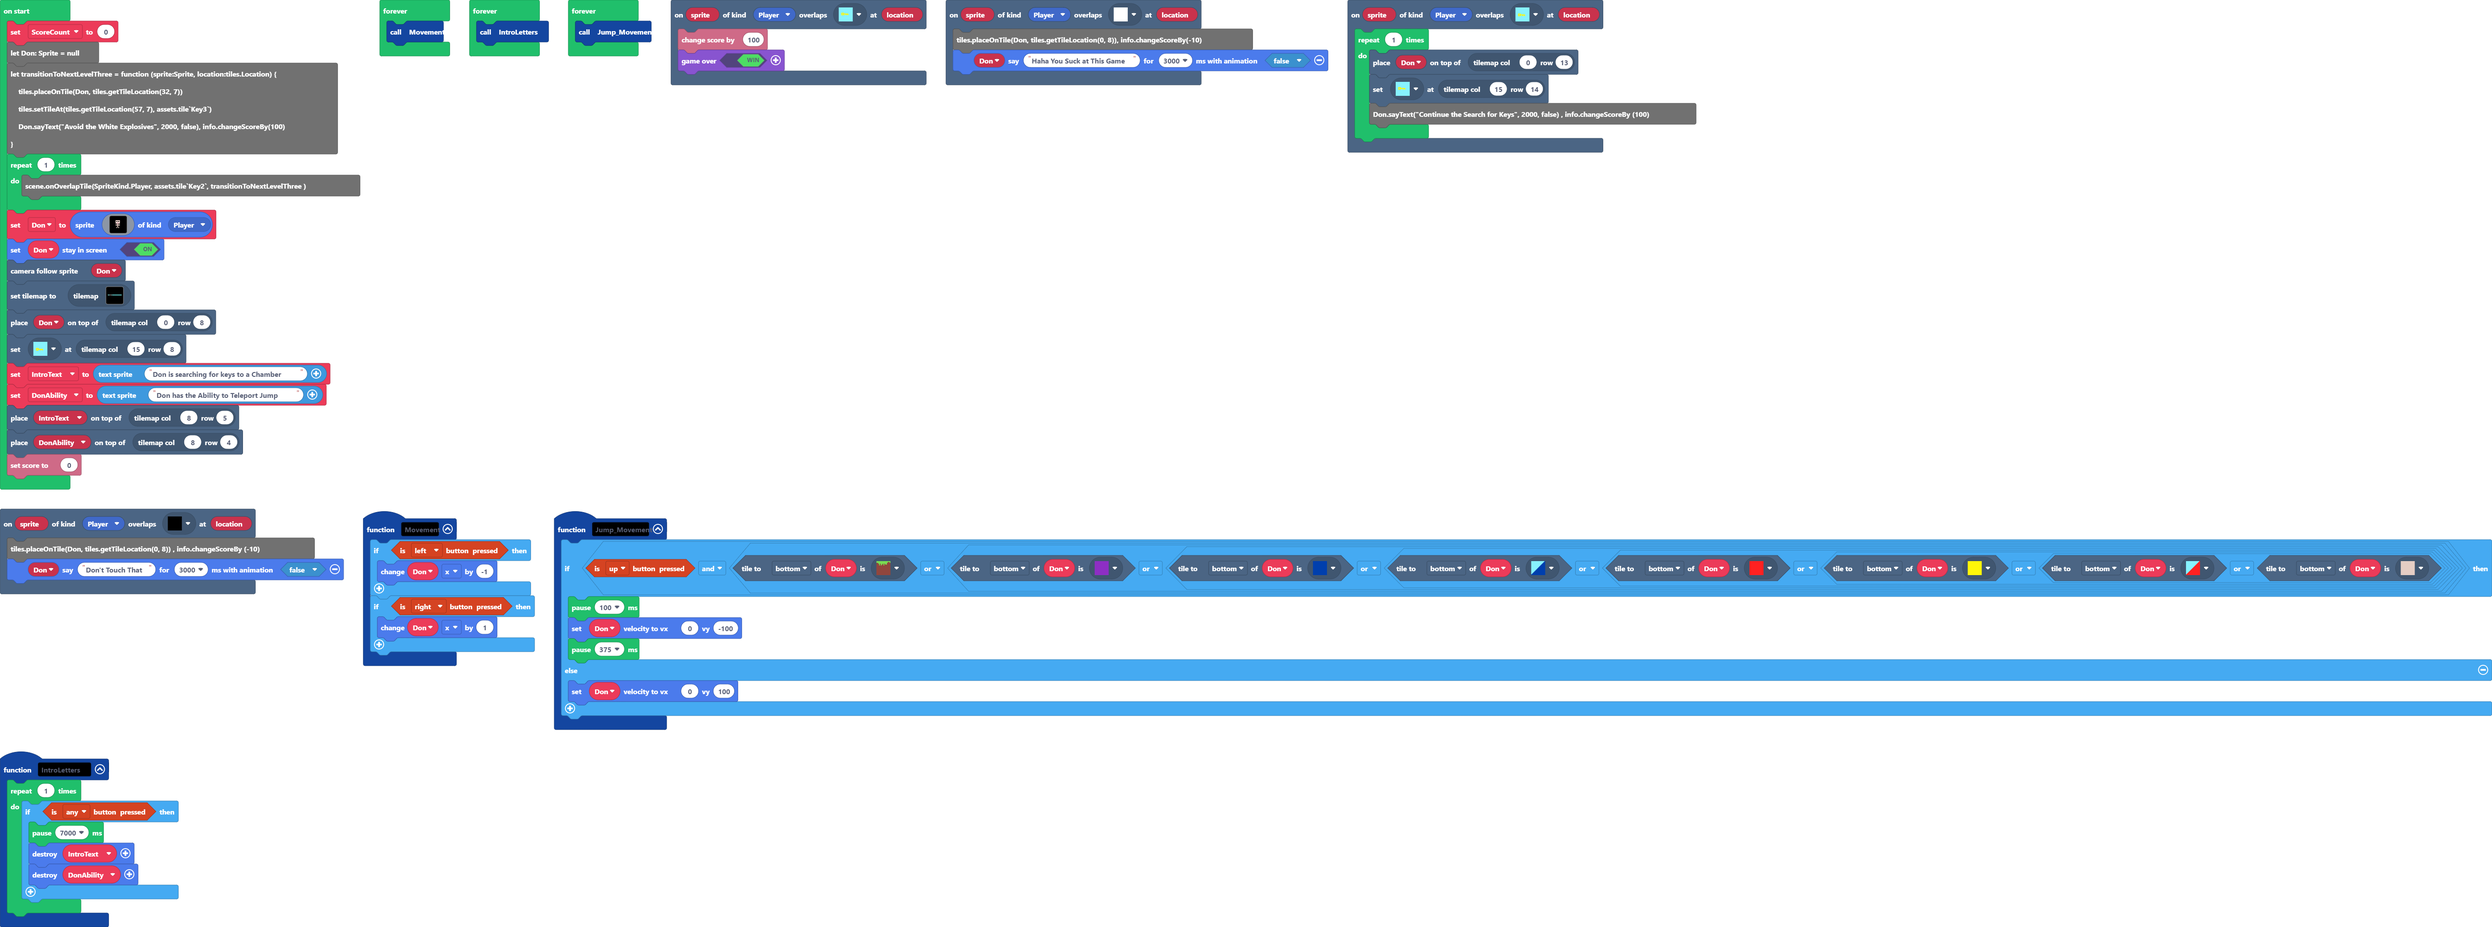
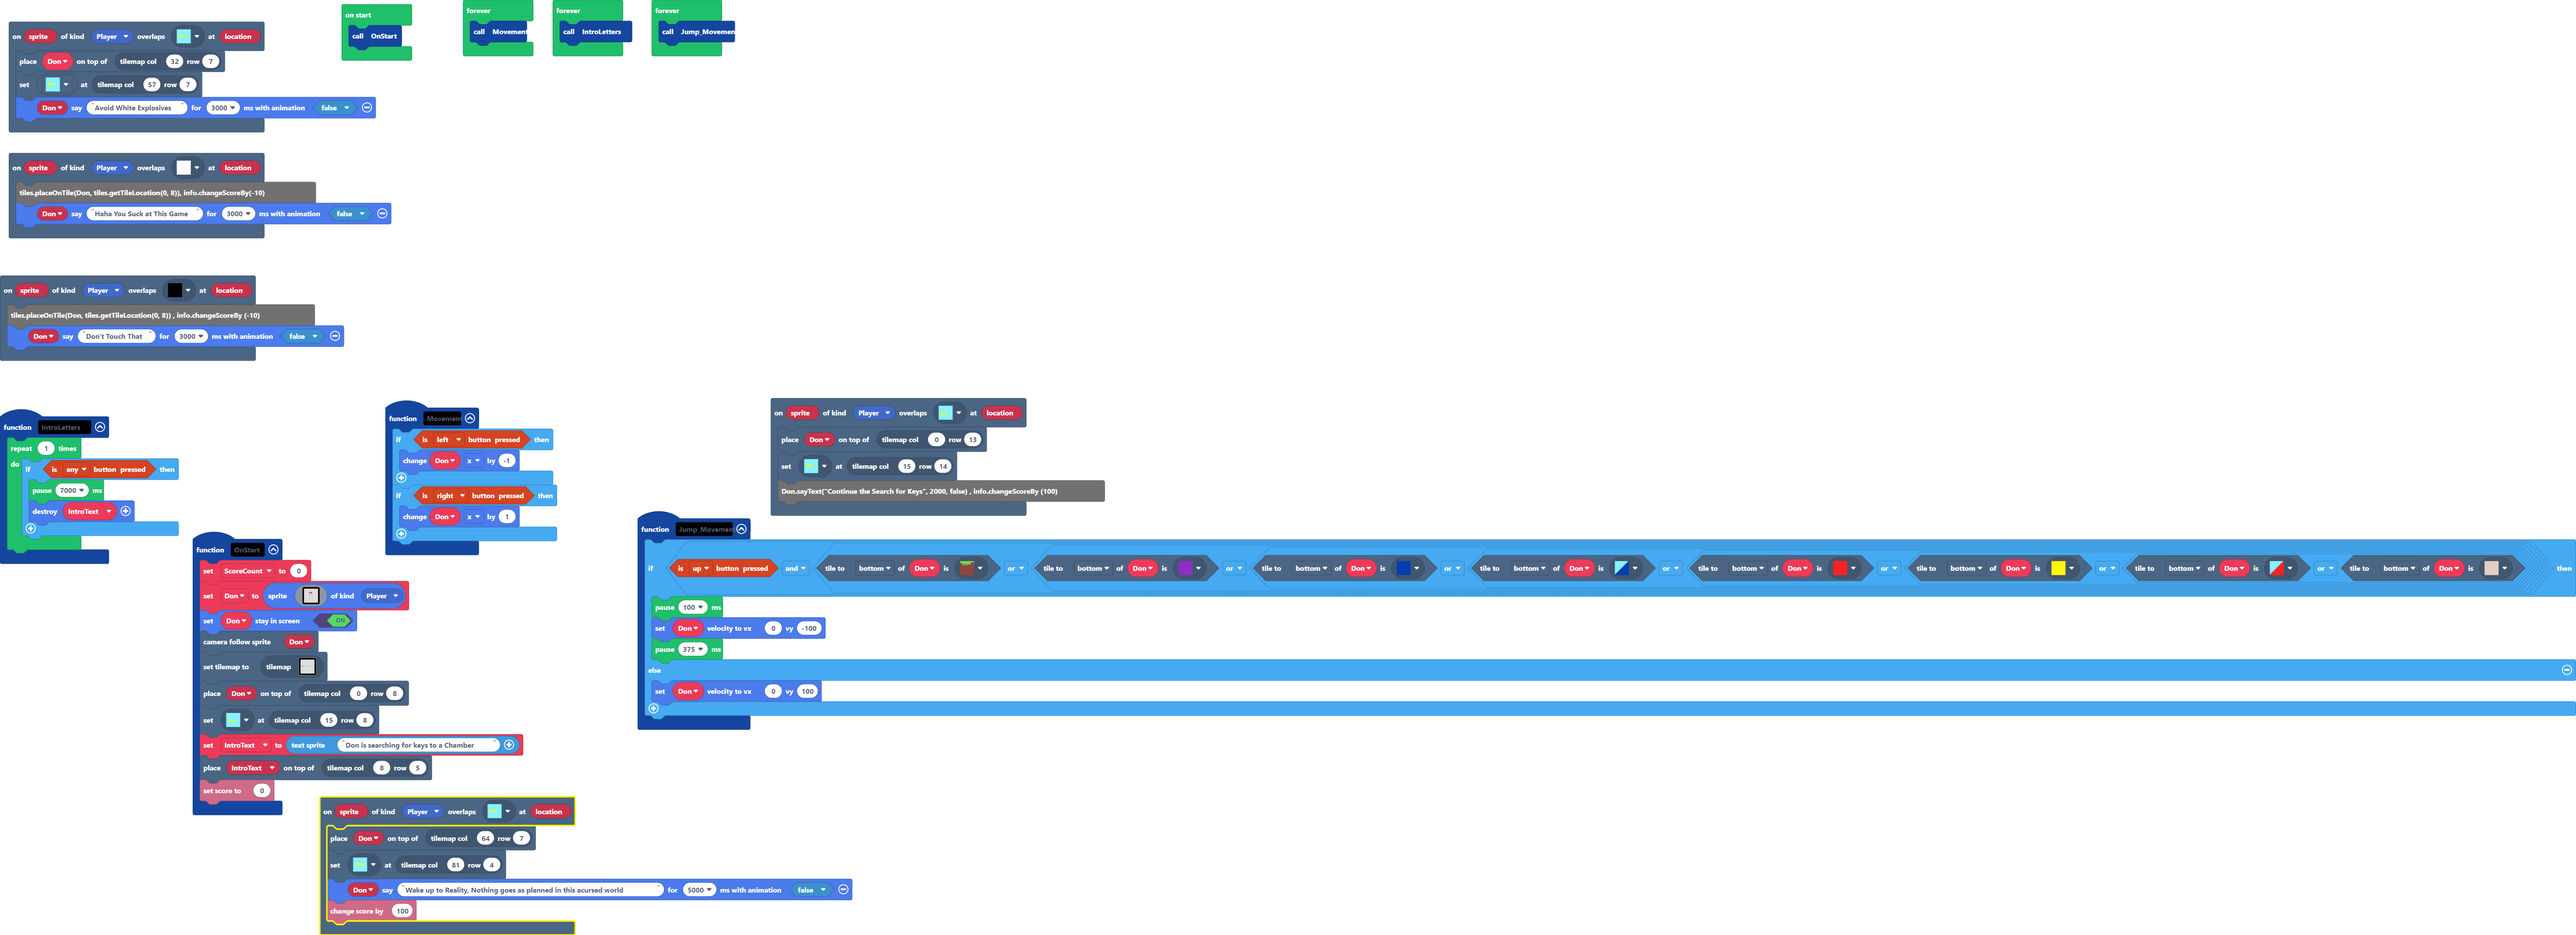
Update pxt.json, main.blocks, main.ts, tilemap.g.jres, tilemap.g.ts

Changed region(s): [[0.0, 0.0, 1.0, 1.0]]

diff --git a/main.ts b/main.ts
@@ -23,18 +23,38 @@ function Jump_Movement () {
     }
 }
 scene.onOverlapTile(SpriteKind.Player, assets.tile`Key1`, function (sprite, location) {
-    for (let index = 0; index < 1; index++) {
-        tiles.placeOnTile(Don, tiles.getTileLocation(0, 13))
-        tiles.setTileAt(tiles.getTileLocation(15, 14), assets.tile`Key2`)
-        Don.sayText("Continue the Search for Keys", 2000, false) , info.changeScoreBy (100)
-    }
+    tiles.placeOnTile(Don, tiles.getTileLocation(0, 13))
+    tiles.setTileAt(tiles.getTileLocation(15, 14), assets.tile`Key2`)
+    Don.sayText("Continue the Search for Keys", 2000, false) , info.changeScoreBy (100)
+})
+scene.onOverlapTile(SpriteKind.Player, assets.tile`Key2`, function (sprite, location) {
+    tiles.placeOnTile(Don, tiles.getTileLocation(32, 7))
+    tiles.setTileAt(tiles.getTileLocation(57, 7), assets.tile`Key3`)
+    Don.sayText("Avoid White Explosives", 3000, false)
+})
+function OnStart () {
+    ScoreCount = 0
+    Don = sprites.create(assets.image`Don`, SpriteKind.Player)
+    Don.setStayInScreen(true)
+    scene.cameraFollowSprite(Don)
+    tiles.setCurrentTilemap(tilemap`World102`)
+    tiles.placeOnTile(Don, tiles.getTileLocation(0, 8))
+    tiles.setTileAt(tiles.getTileLocation(15, 8), assets.tile`Key1`)
+    IntroText = textsprite.create("Don is searching for keys to a Chamber")
+    tiles.placeOnTile(IntroText, tiles.getTileLocation(8, 5))
+    info.setScore(0)
+}
+scene.onOverlapTile(SpriteKind.Player, assets.tile`Key3`, function (sprite, location) {
+    tiles.placeOnTile(Don, tiles.getTileLocation(64, 7))
+    tiles.setTileAt(tiles.getTileLocation(81, 4), assets.tile`Key4`)
+    Don.sayText("Wake up to Reality, Nothing goes as planned in this acursed world", 5000, false)
+    info.changeScoreBy(100)
 })
 function IntroLetters () {
     for (let index = 0; index < 1; index++) {
         if (controller.anyButton.isPressed()) {
             pause(7000)
             IntroText.destroy()
-            DonAbility.destroy()
         }
     }
 }
@@ -42,29 +62,10 @@ scene.onOverlapTile(SpriteKind.Player, assets.tile`myTile14`, function (sprite, 
     tiles.placeOnTile(Don, tiles.getTileLocation(0, 8)), info.changeScoreBy(-10)
 Don.sayText("Haha You Suck at This Game", 3000, false)
 })
-let DonAbility: TextSprite = null
 let IntroText: TextSprite = null
 let ScoreCount = 0
 let Don: Sprite = null
-let transitionToNextLevelThree = function (sprite:Sprite, location:tiles.Location) {
-    tiles.placeOnTile(Don, tiles.getTileLocation(32, 7))
-    tiles.setTileAt(tiles.getTileLocation(57, 7), assets.tile`Key3`)
-    Don.sayText("Avoid the White Explosives", 2000, false), info.changeScoreBy(100)
-}
-for (let index = 0; index < 1; index++) {
-    scene.onOverlapTile(SpriteKind.Player, assets.tile`Key2`, transitionToNextLevelThree )
-}
-Don = sprites.create(assets.image`Don`, SpriteKind.Player)
-Don.setStayInScreen(true)
-scene.cameraFollowSprite(Don)
-tiles.setCurrentTilemap(tilemap`World102`)
-tiles.placeOnTile(Don, tiles.getTileLocation(0, 8))
-tiles.setTileAt(tiles.getTileLocation(15, 8), assets.tile`Key1`)
-IntroText = textsprite.create("Don is searching for keys to a Chamber")
-DonAbility = textsprite.create("Don has the Ability to Teleport Jump")
-tiles.placeOnTile(IntroText, tiles.getTileLocation(8, 5))
-tiles.placeOnTile(DonAbility, tiles.getTileLocation(8, 4))
-info.setScore(0)
+OnStart()
 forever(function () {
     Movement()
 })
@@ -73,10 +74,4 @@ forever(function () {
 })
 forever(function () {
     Jump_Movement()
-})
-scene.onOverlapTile (SpriteKind.Player, assets.tile`Key3`, function(sprite, location) {
-    tiles.placeOnTile (Don, tiles.getTileLocation (64,7))
-    tiles.setTileAt (tiles.getTileLocation(81,4), assets.tile`Key4`)
-    Don.sayText ("Wake up to Reality, Nothing goes as planned in this acursed world", 5000, false)
-    info.changeScoreBy (100)
 })

diff --git a/tilemap.g.ts b/tilemap.g.ts
@@ -197,6 +197,25 @@ namespace myTiles {
 222..2..2..2....222222222222222222222222222222222222222222222222222222222222222222222222.......................................................................................................................................................................
 ...222..2222..22222222222222222222222222222222222222222222222222222222222222222222222222.......................................................................................................................................................................
 `, [myTiles.transparency16,myTiles.tile1,myTiles.tile4,myTiles.tile5,myTiles.tile6,myTiles.tile8,myTiles.tile9,myTiles.tile10,myTiles.tile11,myTiles.tile12,myTiles.tile14,myTiles.tile17,myTiles.tile19], TileScale.Sixteen);
+            case "level9":
+            case "level9":return tiles.createTilemap(hex`1000100000000000000000000000000000000000000000000000000000000000000000000000000000000000000000000000000000000000000000000000000000000000000000000000000000000000000000000000000000000000000000000000000000000000000000000000000000000000000000000000000000000000000000000000000000000000000000000000000000000000000000000000000000000000000000000000000000000000000000000000000000000000000000000000000000000000000000000000000000000000000000000000000000000000000000000000000000000000000000000000000000000000000000000000000000000000`, img`
+. . . . . . . . . . . . . . . . 
+. . . . . . . . . . . . . . . . 
+. . . . . . . . . . . . . . . . 
+. . . . . . . . . . . . . . . . 
+. . . . . . . . . . . . . . . . 
+. . . . . . . . . . . . . . . . 
+. . . . . . . . . . . . . . . . 
+. . . . . . . . . . . . . . . . 
+. . . . . . . . . . . . . . . . 
+. . . . . . . . . . . . . . . . 
+. . . . . . . . . . . . . . . . 
+. . . . . . . . . . . . . . . . 
+. . . . . . . . . . . . . . . . 
+. . . . . . . . . . . . . . . . 
+. . . . . . . . . . . . . . . . 
+. . . . . . . . . . . . . . . . 
+`, [myTiles.transparency16], TileScale.Sixteen);
         }
         return null;
     })
